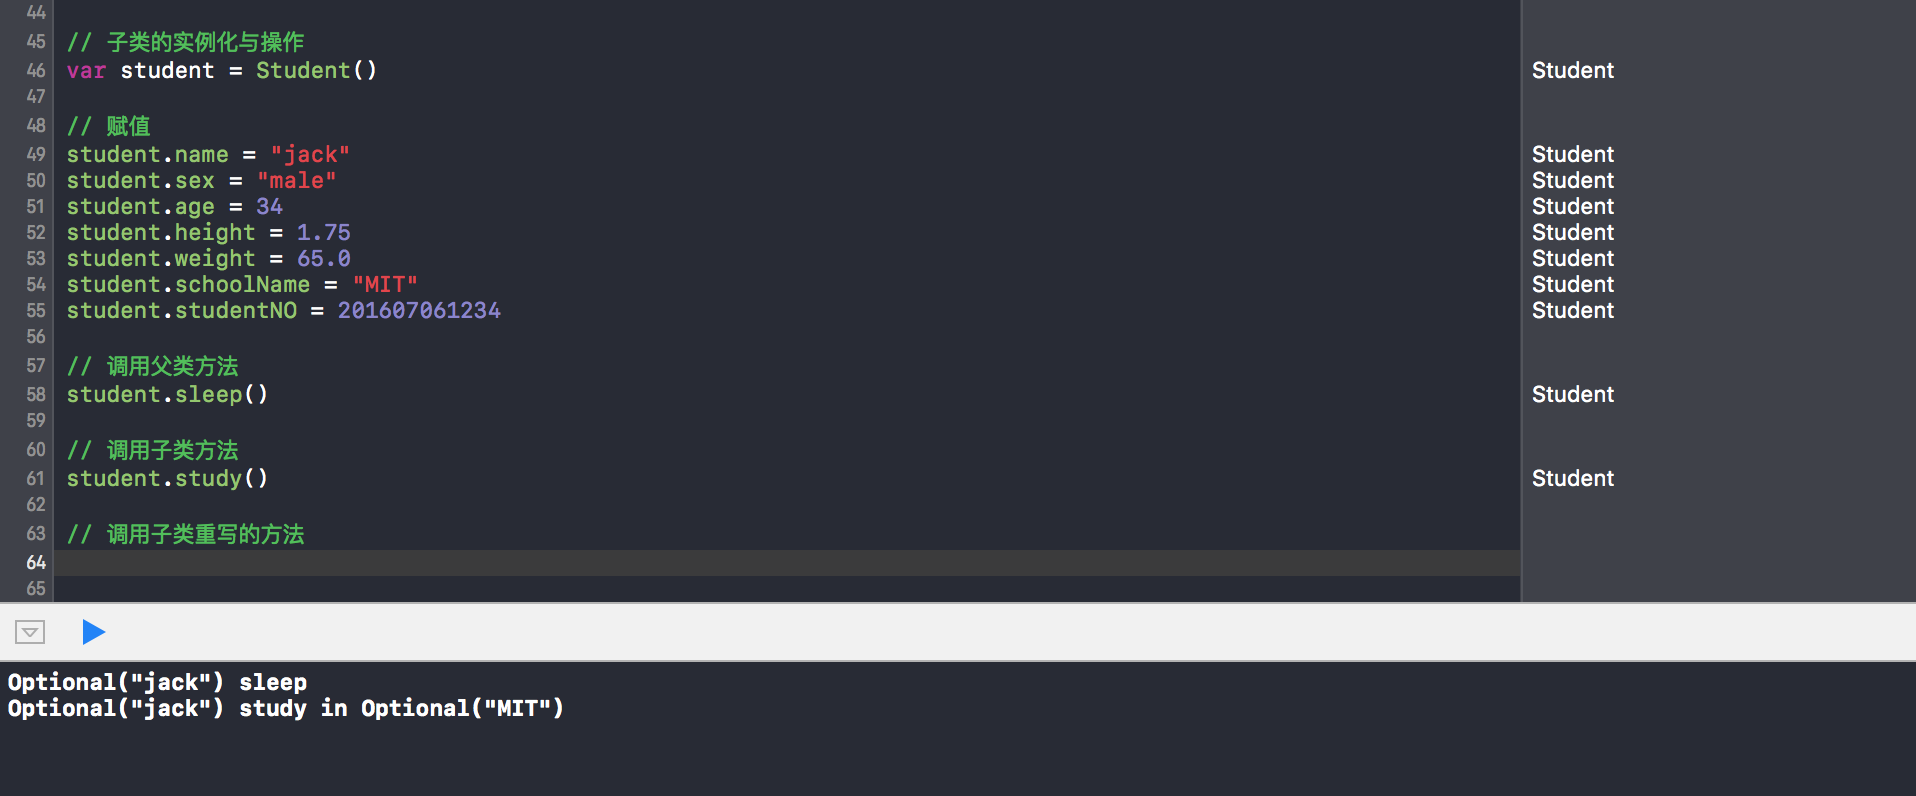
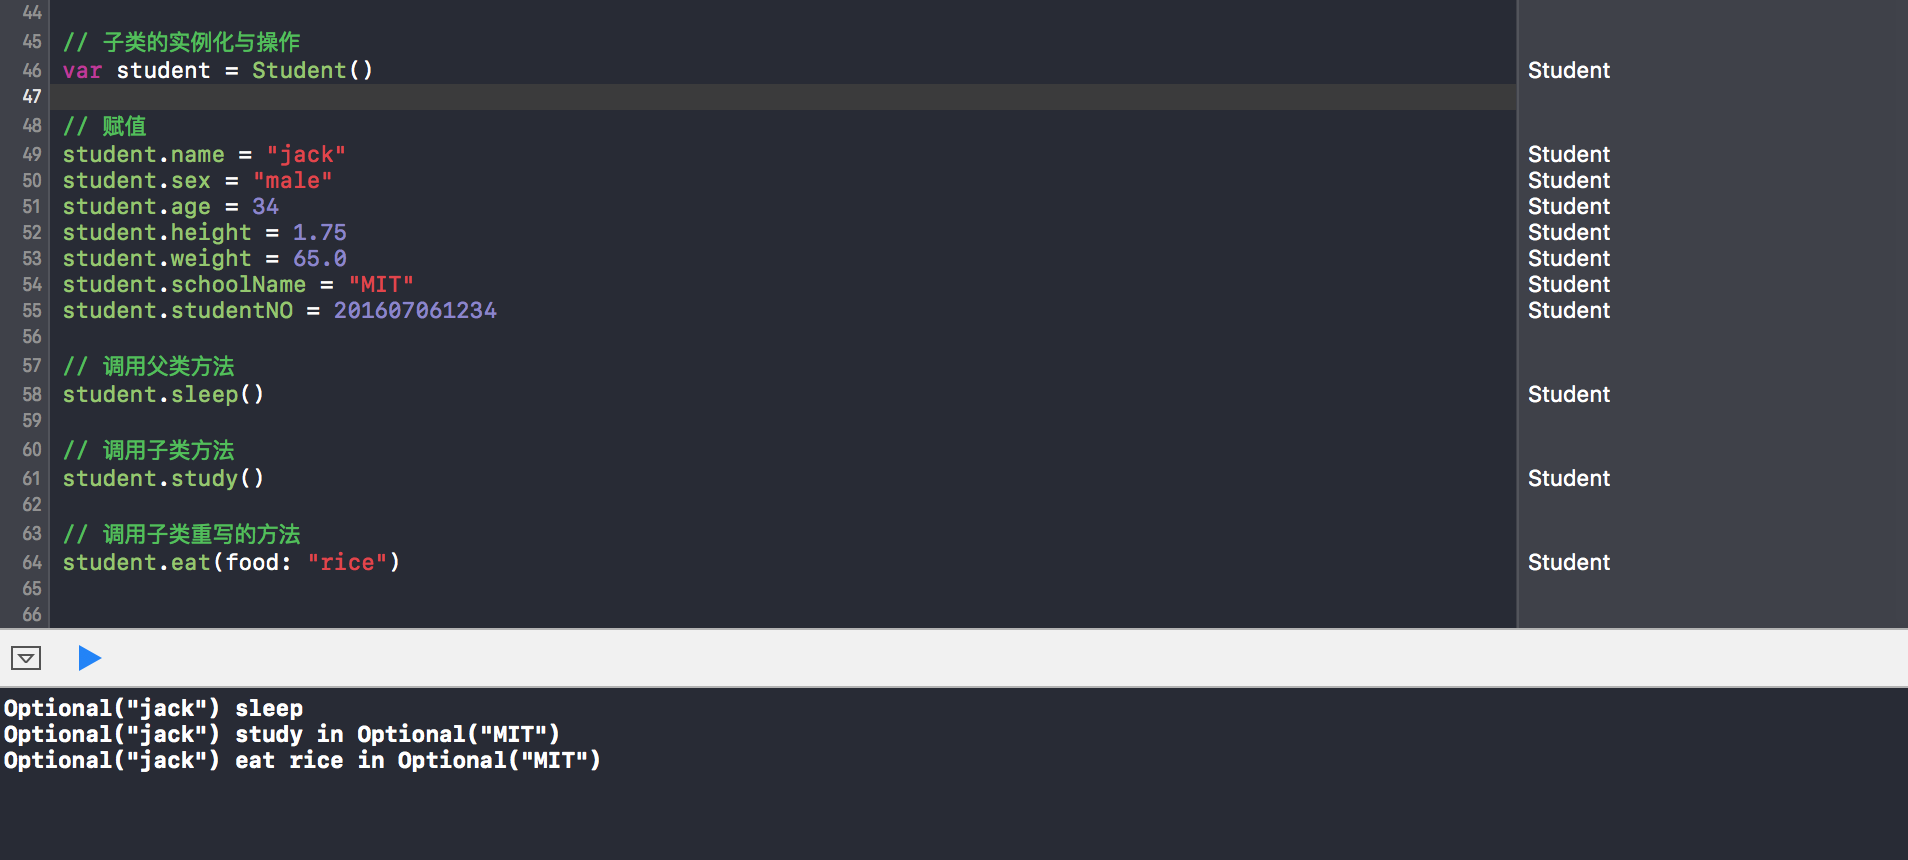
Update

diff --git a/14-类的继承/类的继承.playground/Contents.swift b/14-类的继承/类的继承.playground/Contents.swift
@@ -61,4 +61,5 @@ student.sleep()
 student.study()
 
 // 调用子类重写的方法
+student.eat(food: "rice")
 
